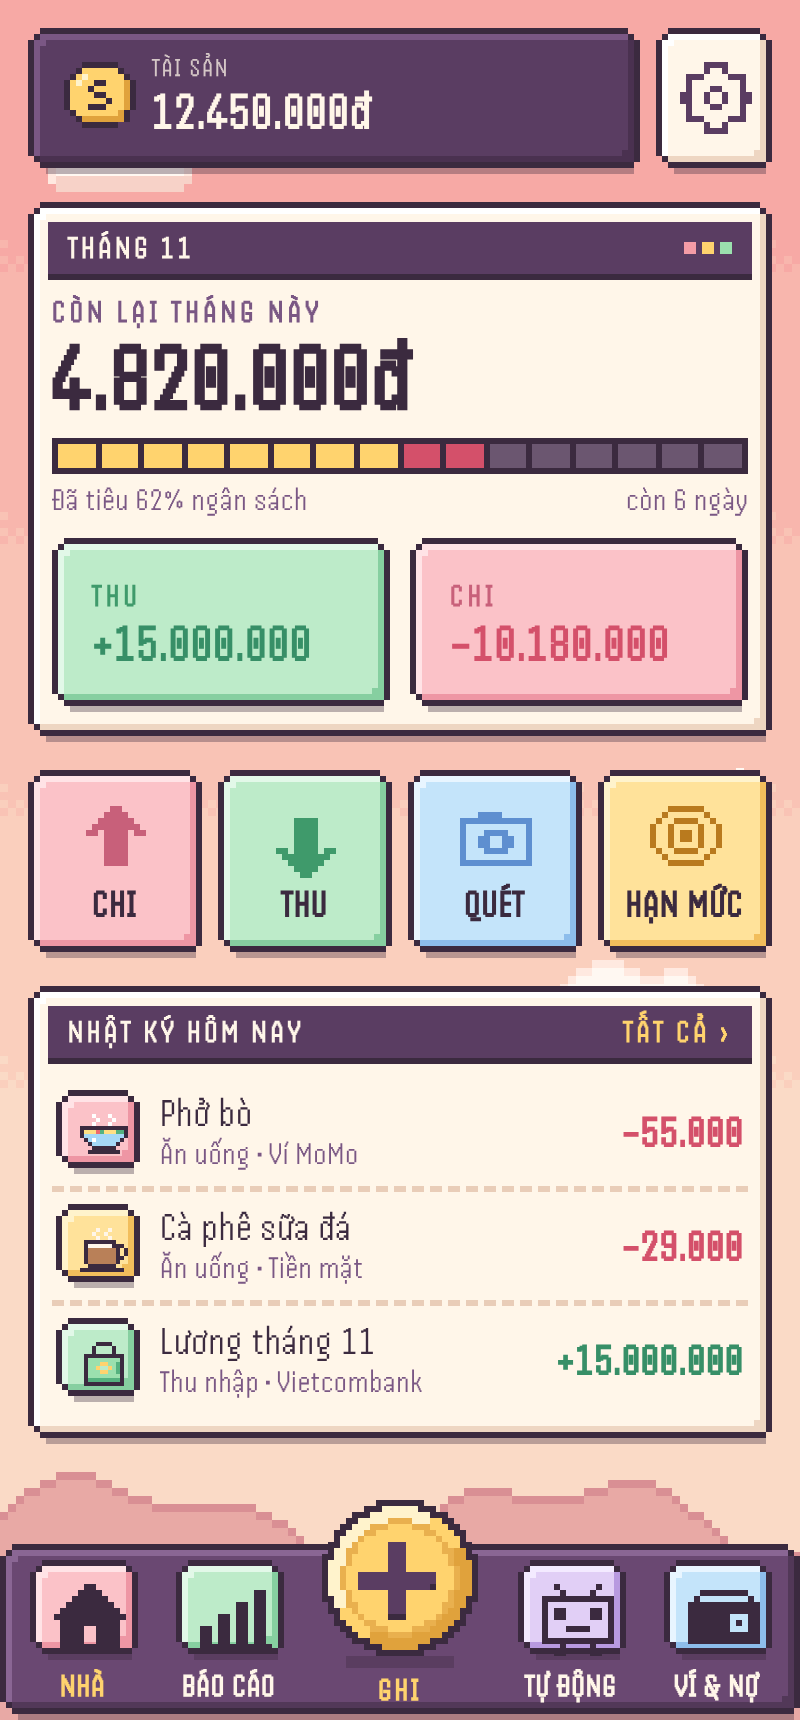
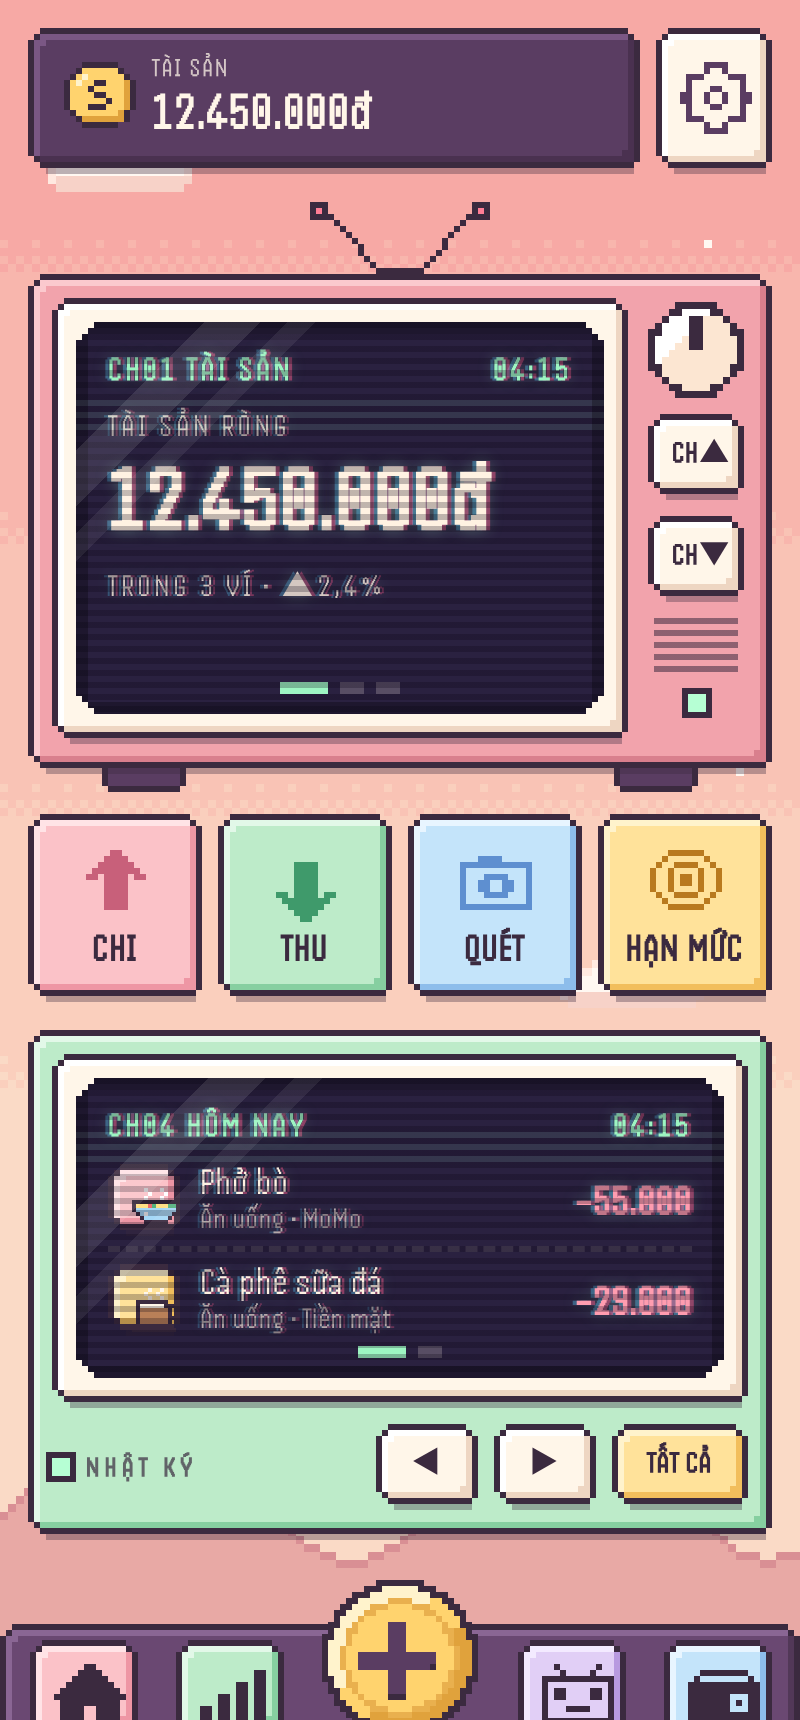
Pixel UI mockup: every section is a CRT TV with channel effects
Reusable buildTV(): stepped-corner screen, pixel antenna with blinking
tips, knob, CH buttons, power-on line, static noise + colour bars on
channel switch, glitch, rolling scan band.

Claude-Session: https://claude.ai/code/session_01FJNvN5z83tJBi6FoMbuiCK

diff --git a/design/pixel-ui/home-mock.html b/design/pixel-ui/home-mock.html
@@ -12,7 +12,7 @@
 }
 *{box-sizing:border-box;margin:0;padding:0}
 html,body{background:#F2BDB4}
-body{font-family:Handjet,system-ui,sans-serif;color:var(--ink);font-size:20px;width:400px;min-height:860px;position:relative;overflow:hidden;letter-spacing:.02em}
+body{font-family:Handjet,system-ui,sans-serif;color:var(--ink);font-size:20px;width:400px;min-height:900px;position:relative;overflow:hidden;letter-spacing:.02em}
 #sky{position:absolute;inset:0;z-index:0;image-rendering:pixelated}
 .app{position:relative;z-index:1;padding:14px 14px 130px;display:flex;flex-direction:column;gap:14px}
 .px{border-style:solid;border-width:calc(var(--S)*4) calc(var(--S)*4) calc(var(--S)*5);border-image-slice:4 4 5 4 fill;border-image-repeat:stretch;image-rendering:pixelated}
@@ -50,6 +50,62 @@ body{font-family:Handjet,system-ui,sans-serif;color:var(--ink);font-size:20px;wi
 .dk.on .lab{color:var(--gold)}
 .ghi{justify-self:center;display:flex;flex-direction:column;align-items:center;gap:2px;color:var(--gold);font-weight:800;font-size:16px;letter-spacing:.1em;margin-bottom:-2px}
 .ghi canvas{width:84px;height:84px;image-rendering:pixelated}
+
+/* ---------- TV pixel (vẽ mới) ---------- */
+.tv{position:relative;padding-top:36px}.tv.noant{padding-top:0}
+.ctrl{display:flex;align-items:center;gap:8px;margin-top:8px}.ctrl .mini{width:auto;padding:0 6px}.ctrl .brand{flex:1;font-weight:800;letter-spacing:.2em;font-size:14px;color:#3B2A3F;opacity:.7}
+.tvlist .it{display:flex;align-items:center;gap:10px;padding:5px 0;border-bottom:3px dashed rgba(255,242,226,.14)}.tvlist .it:last-child{border:0}.tvlist .tile{width:36px;height:36px}.tvlist .t{flex:1;line-height:1.1;font-size:19px}.tvlist .t small{display:block;font-size:15px;opacity:.65}.tvlist .m{font-weight:800;font-size:21px}
+.it.new{animation:slidein .5s steps(5) both}@keyframes slidein{from{transform:translateX(40px);opacity:0}}
+.ant{position:absolute;left:50%;top:0;width:120px;height:42px;transform:translateX(-50%);image-rendering:pixelated}
+.tvbody{position:relative}
+.tvtop{display:grid;grid-template-columns:minmax(0,1fr) 52px;gap:8px}
+.bezel{padding:0}
+.scr{position:relative;height:var(--h,200px);overflow:hidden;background:#2A2140;color:#FFF2E2;
+ clip-path:polygon(0 9px,3px 9px,3px 6px,6px 6px,6px 3px,9px 3px,9px 0,calc(100% - 9px) 0,calc(100% - 9px) 3px,calc(100% - 6px) 3px,calc(100% - 6px) 6px,calc(100% - 3px) 6px,calc(100% - 3px) 9px,100% 9px,100% calc(100% - 9px),calc(100% - 3px) calc(100% - 9px),calc(100% - 3px) calc(100% - 6px),calc(100% - 6px) calc(100% - 6px),calc(100% - 6px) calc(100% - 3px),calc(100% - 9px) calc(100% - 3px),calc(100% - 9px) 100%,9px 100%,9px calc(100% - 3px),6px calc(100% - 3px),6px calc(100% - 6px),3px calc(100% - 6px),3px calc(100% - 9px),0 calc(100% - 9px))}
+/* nền màn: ô lưới phosphor + vignette bậc thang */
+.scr::before{content:"";position:absolute;inset:0;z-index:5;pointer-events:none;
+ background:repeating-linear-gradient(180deg,rgba(12,6,22,.26) 0 3px,transparent 3px 6px)}
+.scr::after{content:"";position:absolute;inset:0;z-index:6;pointer-events:none;
+ background:
+  linear-gradient(135deg,transparent 0 14%,rgba(255,255,255,.10) 14% 20%,transparent 20% 23%,rgba(255,255,255,.07) 23% 26%,transparent 26%),
+  linear-gradient(90deg,rgba(0,0,0,.28) 0 6px,transparent 6px calc(100% - 6px),rgba(0,0,0,.28) calc(100% - 6px)),
+  linear-gradient(180deg,rgba(0,0,0,.28) 0 6px,transparent 6px calc(100% - 6px),rgba(0,0,0,.28) calc(100% - 6px))}
+.cnt{position:absolute;inset:0;z-index:2;padding:14px 16px;display:flex;flex-direction:column;gap:4px;
+ text-shadow:2px 0 0 rgba(255,90,140,.45),-2px 0 0 rgba(90,210,255,.35),0 0 8px rgba(157,245,194,.35)}
+.cnt.glitch{animation:glitch .36s steps(6) both}
+.osd{display:flex;justify-content:space-between;font-weight:700;letter-spacing:.1em;font-size:17px;color:#9DF5C2}
+.tvlbl{font-size:16px;letter-spacing:.12em;opacity:.8;margin-top:6px}
+.tvbig{font-size:46px;font-weight:800;line-height:1}
+.cur{display:inline-block;width:12px;height:30px;background:#9DF5C2;margin-left:4px;animation:blink 1s steps(1) infinite;vertical-align:-2px}
+.hp{display:grid;grid-template-columns:repeat(14,1fr);gap:3px;margin-top:6px}.hp i{height:12px;background:rgba(255,242,226,.14)}.hp i.on{background:#FFD36E}.hp i.on.r{background:#FF7D95}
+.cbar{display:flex;align-items:flex-end;gap:3px;height:70px;margin-top:4px}.cbar i{flex:1;background:#FFA5BC;animation:grow .5s steps(5) both}.cbar i.t{background:#FFD36E}
+.chdots{position:absolute;bottom:10px;left:0;right:0;display:flex;justify-content:center;gap:6px}.chdots i{width:12px;height:6px;background:rgba(255,242,226,.22)}.chdots i.on{width:24px;background:#9DF5C2}
+.noise{position:absolute;inset:0;width:100%;height:100%;z-index:3;image-rendering:pixelated;opacity:0}
+.noise.on{opacity:1}
+.bars{position:absolute;inset:0;z-index:3;display:flex;opacity:0}.bars.on{opacity:1}
+.bars i{flex:1}.bars i:nth-child(1){background:#FFF6E9}.bars i:nth-child(2){background:#FFD36E}.bars i:nth-child(3){background:#7DD3C6}.bars i:nth-child(4){background:#9BE0AE}.bars i:nth-child(5){background:#F49CA6}.bars i:nth-child(6){background:#EE6B6E}.bars i:nth-child(7){background:#6E9FDE}
+.roll{position:absolute;left:0;right:0;height:18px;top:-18px;z-index:4;background:repeating-linear-gradient(180deg,rgba(157,245,194,.10) 0 3px,transparent 3px 6px);animation:roll 6s steps(60) infinite}
+.pwr{position:absolute;inset:0;z-index:7;background:#2A2140;pointer-events:none}
+.pwr.go{animation:pwrOff .9s steps(9) forwards}
+.pwr::before{content:"";position:absolute;left:0;right:0;top:50%;height:3px;margin-top:-1px;background:#FFF6E9;box-shadow:0 0 0 3px rgba(157,245,194,.5)}
+.pwr.go::before{animation:pwrLine .9s steps(9) forwards}
+.side{display:flex;flex-direction:column;align-items:center;gap:8px;padding-top:2px}
+.knob{width:48px;height:48px;image-rendering:pixelated;animation:knob 6s steps(1) infinite}
+.mini{width:48px;text-align:center;font-weight:800;font-size:15px;padding:0;line-height:16px}
+.grille{width:42px;height:30px;background:repeating-linear-gradient(180deg,#3B2A3F 0 3px,transparent 3px 6px);opacity:.55}
+.led{width:9px;height:9px;background:#7DFFB0;box-shadow:0 0 0 3px #3B2A3F;animation:led 2.4s steps(4) infinite}
+.feet{display:flex;justify-content:space-between;padding:0 40px;margin-top:-6px}.feet span{width:36px;height:12px;background:#5A3D62;box-shadow:0 3px 0 #3B2A3F,3px 0 0 #3B2A3F,-3px 0 0 #3B2A3F}
+@keyframes blink{50%{opacity:0}}
+@keyframes roll{to{top:100%}}
+@keyframes grow{from{transform:scaleY(0)}to{transform:scaleY(1)}}
+.cbar i{transform-origin:bottom}
+@keyframes glitch{0%{transform:translateX(-12px);clip-path:inset(20% 0 50% 0)}20%{transform:translateX(9px);clip-path:inset(60% 0 10% 0)}40%{transform:translateX(-6px);clip-path:inset(0 0 70% 0)}60%{transform:translateX(3px);clip-path:none}100%{transform:none}}
+@keyframes pwrOff{0%,40%{clip-path:inset(0)}100%{clip-path:inset(50% 0 50% 0)}}
+@keyframes pwrLine{0%{transform:scaleX(0)}40%{transform:scaleX(1);opacity:1}100%{opacity:0}}
+@keyframes led{50%{background:#C9FFE0}}
+@keyframes knob{0%{transform:rotate(0)}50%{transform:rotate(90deg)}}
+@keyframes sway{0%,100%{transform:rotate(0)}50%{transform:rotate(-3deg)}}
+.f-tv{}
 </style></head>
 <body>
 <canvas id="sky" width="100" height="215"></canvas>
@@ -59,17 +115,7 @@ body{font-family:Handjet,system-ui,sans-serif;color:var(--ink);font-size:20px;wi
     <div class="sq px" data-f="paper"><img class="ico" data-i="gear" data-c="#5A3D62"></div>
   </div>
 
-  <div class="win px" data-f="paper">
-    <div class="bar"><span>THÁNG 11</span><div class="dots"><i></i><i></i><i></i></div></div>
-    <div class="lbl">CÒN LẠI THÁNG NÀY</div>
-    <div class="big">4.820.000đ</div>
-    <div class="meter" id="meter"></div>
-    <div class="row" style="justify-content:space-between;font-size:16px;color:var(--plumL);margin-top:4px"><span>Đã tiêu 62% ngân sách</span><span>còn 6 ngày</span></div>
-    <div class="two">
-      <div class="stat px" data-f="mint"><span class="lbl" style="color:var(--mintD)">THU</span><b style="color:var(--inc)">+15.000.000</b></div>
-      <div class="stat px" data-f="pink"><span class="lbl" style="color:var(--pinkD)">CHI</span><b style="color:var(--exp)">−10.180.000</b></div>
-    </div>
-  </div>
+  <div class="tv" data-tv="main"></div>
 
   <div class="keys">
     <div class="key px" data-f="pink"><img class="ico" data-i="up" data-c="#C8607A">CHI</div>
@@ -78,12 +124,7 @@ body{font-family:Handjet,system-ui,sans-serif;color:var(--ink);font-size:20px;wi
     <div class="key px" data-f="gold"><img class="ico" data-i="target" data-c="#B97A1E">HẠN MỨC</div>
   </div>
 
-  <div class="win px" data-f="paper">
-    <div class="bar"><span>NHẬT KÝ HÔM NAY</span><span style="color:var(--gold)">TẤT CẢ ›</span></div>
-    <div class="item"><div class="tile px" data-f="pink"><img class="ico sm" data-i="pho"></div><div class="t">Phở bò<small>Ăn uống · Ví MoMo</small></div><div class="m" style="color:var(--exp)">−55.000</div></div>
-    <div class="item"><div class="tile px" data-f="gold"><img class="ico sm" data-i="coffee"></div><div class="t">Cà phê sữa đá<small>Ăn uống · Tiền mặt</small></div><div class="m" style="color:var(--exp)">−29.000</div></div>
-    <div class="item"><div class="tile px" data-f="mint"><img class="ico sm" data-i="bag"></div><div class="t">Lương tháng 11<small>Thu nhập · Vietcombank</small></div><div class="m" style="color:var(--inc)">+15.000.000</div></div>
-  </div>
+  <div class="tv" data-tv="log"></div>
 </div>
 
 <div class="dock">
@@ -117,6 +158,7 @@ const FR = {
   pink:{b:"#FBC2C8",h:"#FFE3E6",s:"#EE96A4"},
   mint:{b:"#BDEBC9",h:"#E2F8E8",s:"#86CFA0"},
   sky:{b:"#C4E4FA",h:"#E8F5FF",s:"#8DBDEB"},
+  tv:{b:"#F2A3AC",h:"#FBC9CE",s:"#D97F8D"},
   gold:{b:"#FFE29A",h:"#FFF3CC",s:"#F2BE5C"},
   lilac:{b:"#E1CFF6",h:"#F3EAFF",s:"#B89AE0"},
 };
@@ -153,7 +195,7 @@ document.querySelectorAll("img[data-i]").forEach(el=>{
   el.src=C[n]?gridSvg(C[n].g,C[n].m):gridSvg(I[n],{"#":el.dataset.c||"#3B2A3F"});
 });
 // ---------- Thanh ngân sách ----------
-const m=document.getElementById("meter");for(let i=0;i<16;i++){const e=document.createElement("i");if(i<10)e.className="on"+(i>=8?" w":"");m.appendChild(e)}
+
 // ---------- Nút GHI: đồng xu pixel (vẽ mới bằng thuật toán) ----------
 (function(){const c=document.getElementById("coin").getContext("2d"),D=28,r=13;
  for(let y=0;y<D;y++)for(let x=0;x<D;x++){const dx=x+.5-14,dy=y+.5-13,d=Math.hypot(dx,dy);
@@ -182,5 +224,78 @@ const m=document.getElementById("meter");for(let i=0;i<16;i++){const e=document.
  for(let x=0;x<W;x++){const h=Math.round(6+4*Math.sin(x/9)+2*Math.sin(x/4));for(let y=H-h-20;y<H;y++){g.fillStyle=y===H-h-20?"#D98F94":"#E8A9A5";g.fillRect(x,y,1,1)}}
  cv.style.width="400px";cv.style.height="860px";
 })();
+
+// ---------- TV CRT pixel dùng chung cho mọi mục (vẽ mới) ----------
+function decorate(root){
+  root.querySelectorAll("[data-f]").forEach(el=>{
+    const f=FR[el.dataset.f];
+    el.style.borderImageSource=`url("${gridSvg(FRAME,{k:"#3B2A3F",d:"rgba(59,42,63,.35)",...f})}")`;
+    el.style.borderImageSlice="4 4 5 4 fill";
+  });
+  root.querySelectorAll("img[data-i]").forEach(el=>{
+    const n=el.dataset.i;
+    el.src=C[n]?gridSvg(C[n].g,C[n].m):gridSvg(I[n],{"#":el.dataset.c||"#3B2A3F"});
+  });
+}
+const pxl=(c,x,y,col)=>{c.fillStyle=col;c.fillRect(x,y,1,1)};
+function drawAnt(a,t,body){a.clearRect(0,0,40,14);const sw=[0,1,0,-1][t%4];
+  for(let i=0;i<11;i++){pxl(a,8+i+Math.round(sw*i/10),2+i,"#3B2A3F");pxl(a,31-i+Math.round(-sw*i/10),2+i,"#3B2A3F")}
+  const on=t%2==0;[[7+sw,1],[32-sw,1]].forEach(([x,y])=>{a.fillStyle="#3B2A3F";a.fillRect(x-1,y-1,3,3);pxl(a,x,y,on?"#FFD36E":"#FF7D95")});
+  a.fillStyle="#3B2A3F";a.fillRect(16,11,8,3);a.fillStyle=body;a.fillRect(17,12,6,2)}
+function drawKnob(k){for(let y=0;y<14;y++)for(let x=0;x<14;x++){const d=Math.hypot(x+.5-7,y+.5-7);if(d<=7)pxl(k,x,y,d>6?"#3B2A3F":(x+y<10?"#FFFFFF":"#FCE6D2"))}
+  k.fillStyle="#3B2A3F";k.fillRect(6,2,2,5)}
+const TVS=[];
+function buildTV(el,cfg){
+  const body=FR[cfg.color].b;
+  el.style.setProperty("--h",cfg.h+"px");
+  if(!cfg.antenna)el.classList.add("noant");
+  const side=cfg.layout==="side";
+  el.innerHTML=`${cfg.antenna?'<canvas class="ant" width="40" height="14"></canvas>':''}
+  <div class="tvbody px" data-f="${cfg.color}">
+    <div class="${side?'tvtop':''}">
+      <div class="bezel px" data-f="paper"><div class="scr">
+        <div class="cnt"></div>
+        <canvas class="noise" width="80" height="50"></canvas>
+        <div class="bars"><i></i><i></i><i></i><i></i><i></i><i></i><i></i></div>
+        <div class="roll"></div><div class="pwr"></div>
+      </div></div>
+      ${side?`<div class="side"><canvas class="knob" width="14" height="14"></canvas>
+        <div class="mini px up" data-f="paper">CH▲</div><div class="mini px dn" data-f="paper">CH▼</div>
+        <div class="grille"></div><i class="led"></i></div>`:
+      `<div class="ctrl"><i class="led"></i><span class="brand">${cfg.brand||"SPENDY"}</span>
+        <div class="mini px dn" data-f="paper">◀</div><div class="mini px up" data-f="paper">▶</div>
+        <div class="mini px" data-f="gold">${cfg.cta||"TẤT CẢ"}</div></div>`}
+    </div>
+  </div>${side?'<div class="feet"><span></span><span></span></div>':''}`;
+  decorate(el);
+  const q=s=>el.querySelector(s);
+  if(cfg.antenna){const a=q(".ant").getContext("2d");let t=0;drawAnt(a,0,body);setInterval(()=>drawAnt(a,++t,body),500)}
+  if(q(".knob"))drawKnob(q(".knob").getContext("2d"));
+  const nz=q(".noise"),n=nz.getContext("2d"),bars=q(".bars"),cnt=q(".cnt");
+  const noise=()=>{for(let y=0;y<50;y++)for(let x=0;x<80;x++){const v=Math.random();n.fillStyle=v<.33?"#2A2140":v<.66?"#8E7FA8":"#FFF2E2";n.fillRect(x,y,1,1)}};
+  let cur=0;
+  const show=i=>{cnt.innerHTML=cfg.ch[i]()+(cfg.ch.length>1?`<div class="chdots">${cfg.ch.map((_,j)=>`<i class="${j==i?'on':''}"></i>`).join("")}</div>`:"")};
+  const sw=d=>{cur=(cur+d+cfg.ch.length)%cfg.ch.length;noise();nz.classList.add("on");
+    let f=0;const iv=setInterval(()=>{noise();if(++f>3)clearInterval(iv)},60);
+    setTimeout(()=>{nz.classList.remove("on");bars.classList.add("on")},240);
+    setTimeout(()=>{bars.classList.remove("on");show(cur);decorate(cnt);cnt.classList.remove("glitch");void cnt.offsetWidth;cnt.classList.add("glitch")},330)};
+  el.querySelectorAll(".up").forEach(b=>b.onclick=()=>sw(1));
+  el.querySelectorAll(".dn").forEach(b=>b.onclick=()=>sw(-1));
+  show(0);decorate(cnt);
+  setTimeout(()=>q(".pwr").classList.add("go"),cfg.delay||150);
+  TVS.push(sw);
+}
+const fmtCh=(n,t)=>`<div class="osd"><span>CH0${n} ${t}</span><span>04:15</span></div>`;
+buildTV(document.querySelector('[data-tv=main]'),{color:"tv",antenna:true,layout:"side",h:196,ch:[
+  ()=>fmtCh(1,"TÀI SẢN")+`<div class="tvlbl">TÀI SẢN RÒNG</div><div class="tvbig">12.450.000đ<span class="cur"></span></div><div class="tvlbl">TRONG 3 VÍ · ▲2,4%</div>`,
+  ()=>fmtCh(2,"THÁNG 11")+`<div class="tvlbl">CHI MỖI NGÀY</div><div class="cbar">${[30,55,20,70,40,90,35,60,25,80,45,100,30,65].map((h,i)=>`<i class="${i==11?'t':''}" style="height:${h}%;animation-delay:${i*30}ms"></i>`).join("")}</div>`,
+  ()=>fmtCh(3,"NGÂN SÁCH")+`<div class="tvlbl">CÒN LẠI</div><div class="tvbig">4.820.000đ</div><div class="hp">${Array.from({length:14},(_,i)=>`<i class="${i<9?'on'+(i>=7?' r':''):''}"></i>`).join("")}</div><div class="tvlbl">ĐÃ TIÊU 62% · CÒN 6 NGÀY</div>`,
+]});
+const row=(ic,f,name,sub,m,col,cls="")=>`<div class="it ${cls}"><div class="tile px" data-f="${f}"><img class="ico sm" data-i="${ic}"></div><div class="t">${name}<small>${sub}</small></div><div class="m" style="color:${col}">${m}</div></div>`;
+buildTV(document.querySelector('[data-tv=log]'),{color:"mint",layout:"bottom",brand:"NHẬT KÝ",h:150,delay:500,ch:[
+  ()=>fmtCh(4,"HÔM NAY")+`<div class="tvlist">${row("pho","pink","Phở bò","Ăn uống · MoMo","−55.000","#FF9DB0","new")}${row("coffee","gold","Cà phê sữa đá","Ăn uống · Tiền mặt","−29.000","#FF9DB0","new")}</div>`,
+  ()=>fmtCh(5,"HÔM QUA")+`<div class="tvlist">${row("bag","mint","Lương tháng 11","Thu nhập · VCB","+15.000.000","#9DF5C2","new")}${row("pho","pink","Bún chả","Ăn uống · Tiền mặt","−45.000","#FF9DB0","new")}</div>`,
+]});
+if(!location.hash.includes("still")){setInterval(()=>TVS[0](1),3000);setTimeout(()=>setInterval(()=>TVS[1](1),3000),1500)}
 </script>
 </body></html>
